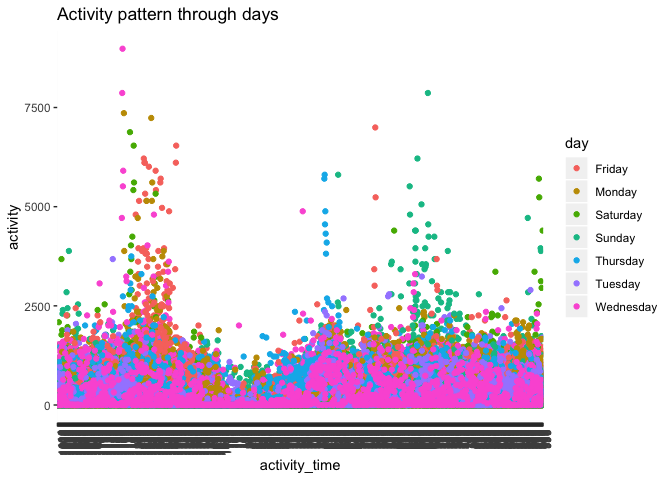
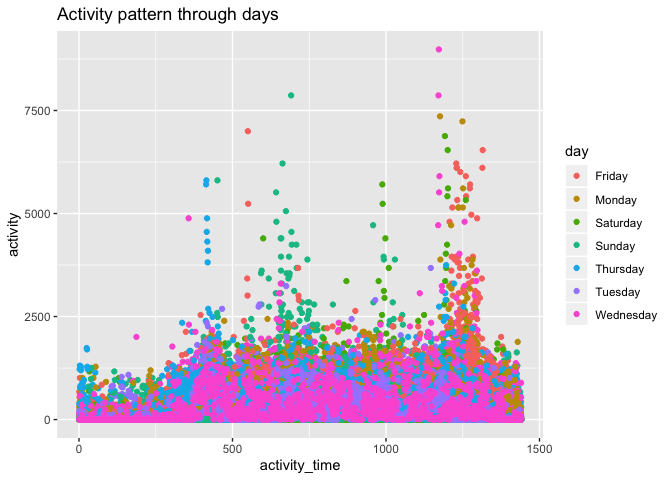
Modified activity time in integers.

diff --git a/p1805_hw3_qz2392.md b/p1805_hw3_qz2392.md
@@ -322,11 +322,10 @@ accel %>%
     values_to = "activity"
   ) %>%
   mutate(
-    activity_time = str_replace_all(activity_time, "activity_", "")
+    activity_time = as.integer(str_replace_all(activity_time, "activity_", ""))
     )%>%
   ggplot(aes(x = activity_time, y = activity, color = day)) +
   geom_point() +
-  theme(axis.text.x = element_text(angle = 90, hjust = 1)) +
   labs(title = "Activity pattern through days")
 ```
 
